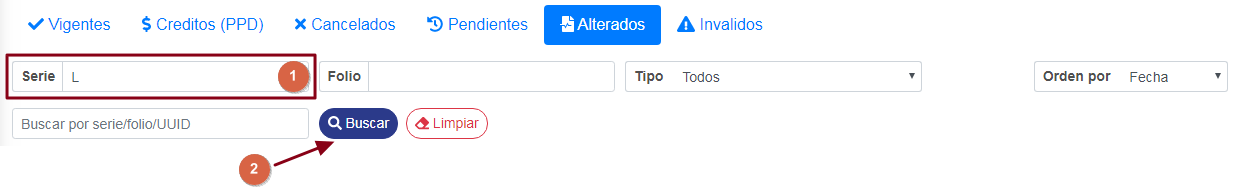
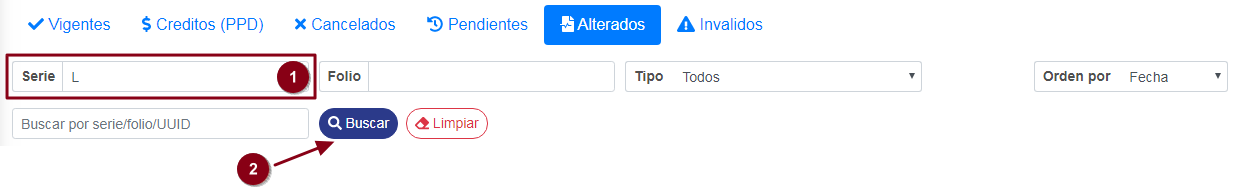
Se realizaron cambios en algunas capturas para mostrarlas con un poco mas de calidad. Se reazli un gran avanze en la sección del buzon

Changed region(s): [[0.2157, 0.3109, 0.2774, 0.4974], [0.1849, 0.7772, 0.2466, 0.9637]]

diff --git a/content/en/docs/buzon/Solicitud de Cancelación/_index.md b/content/en/docs/buzon/Solicitud de Cancelación/_index.md
@@ -1,0 +1,46 @@
+---
+title: "Solicitud de Cancelación"
+linkTitle: "Solicitud de Cancelación"
+weight: 1
+description: >
+  En esta pestaña se podra aceptar o rechazar solicitudes de cancelación recibidas.
+---
+
+![IMG](inicio.png)
+
+### ° Estatus de solicitud
+
+En la tabla inferior se mostraran todas las **solicitudes de cancelación**, mostrando su estado en **pendiente** si es que no se han aceptado o rechazado.
+
+![IMG](estado.png)
+
+### ° Ver detalles de solicitudes
+
+Se podran ver más a detalle las solicitudes de cancelación dando **clic** al boton de **mostrar** en la solicitud deseada.
+
+![IMG](mostrar.png)
+
+Se desplegara un pequeño menú en donde se visualizaran los datos de la solicitud, tanto como su estatus de vigencia, el emisor de la solicitud y los diferentes formatos de descarga.
+
+![IMG](mostrar2.png)
+
+### ° Descargar Acuse de folio
+
+Para visualizar y descargar algun **Acuse de folio** en formato **PDF**, dar **clic** en el boton de **PDF** de cualquier solicitud en la que se desea descargar el **Acuse**.
+
+![IMG](pdf.png)
+
+Se visualizara el acuse el cual estara en formato **PDF**, por lo tanto podra descargar dicho acuse como normalmente descarga archivos PDF.
+
+
+![IMG](acuse.png)
+
+### ° Visualizar en XML
+
+Para visualizar algun **Acuse de folio** en formato **XML**, dar **clic** en el boton de **XML** de cualquier solicitud en la que se desea visualizar dicho formato.
+
+![IMG](xml.png)
+
+Se visualizara la factura en formato **XML** en el navegador que se tenga asignado por defecto.
+
+![IMG](xml2.png)

diff --git a/content/en/docs/Recepción de CFDIs/Por correo/_index.md b/content/en/docs/Recepción de CFDIs/Por correo/_index.md
@@ -53,7 +53,7 @@ Se abrira una ventana donde se monstraran los datos del correo seleccionado.
 Para modificar los campo de **Servidor IMAP** y **Puerto IMAP** se tendra que activar la **Configuración avanzada** , para ello dar clic en el enlace de
 <span class="text-primary">Configuración avanzada</span>, de esta manera de habilitaran los campos para poder **modificarlos**.
 
-![GIF](avanzada.gif)
+![IMG](avanzada.png)
 
 ### ° Eliminación de correos.
 Para eliminar algun correo registrado dar **clic** en el boton de **Eliminar** de dicho correo.

diff --git a/content/en/docs/Cientes y Provedores/Invalidos/_index.md b/content/en/docs/Cientes y Provedores/Invalidos/_index.md
@@ -112,7 +112,7 @@ Se podran ordenar los resultados de los CFD's, ordenandolos por:
 * **Total**
 * **tipo**
 
-Para ordenar los **CFD's**, dar clic en el boton de **Orden por** y seleccionar el que sea de su necesidad.
+Para ordenar los **CFD's**, dar clic en el boton de **Orden por** & seleccionar el que sea de su necesidad.
 
 ![IMG](ordenar.png)
 

diff --git a/content/en/docs/buzon/_index.md b/content/en/docs/buzon/_index.md
@@ -1,0 +1,14 @@
+---
+title: "Buzón"
+linkTitle: "Buzón"
+weight: 7
+---
+
+Para acceder a la sección **Buzón** de **SAIT bóveda** dar clic en el ícono de **Buzón**.
+
+![IMG](inicio.png)
+
+>Siga los enlaces para entrar en detalle con la sección de **Provedores**.
+
+
+
